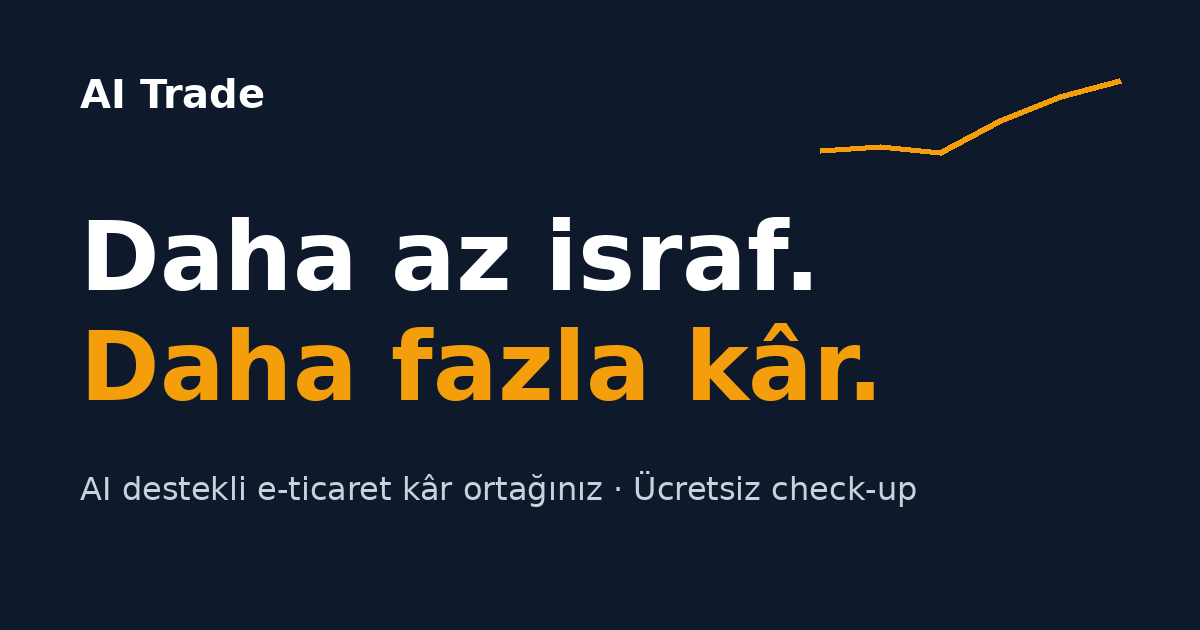
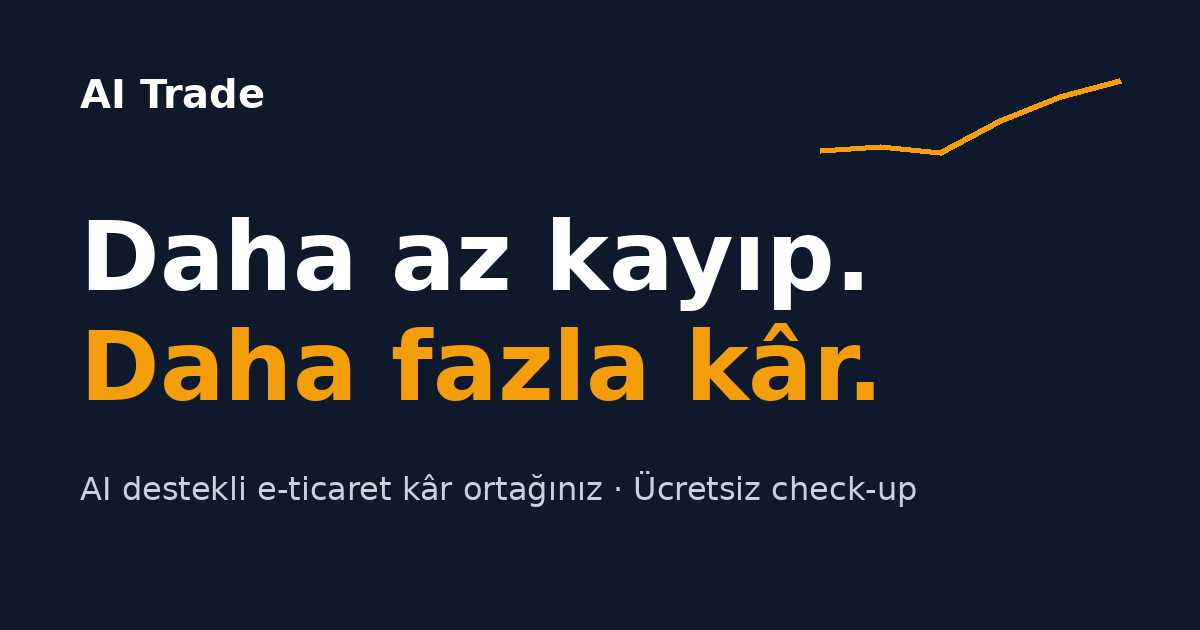
TR headline: Daha az kayıp. Daha fazla kâr.
Claude-Session: https://claude.ai/code/session_01YEdGwetTKLRp8zD5AJcmJk

Changed region(s): [[0.4625, 0.3317, 0.74, 0.5127]]

diff --git a/tr/index.html b/tr/index.html
@@ -57,7 +57,7 @@
 <div class="wrap">
 <div class="hero-copy">
 <p class="eyebrow">AI destekli e-ticaret kâr ortağınız</p>
-<h1 class="rise">Daha az israf.<br>Daha fazla kâr.</h1>
+<h1 class="rise">Daha az kayıp.<br>Daha fazla kâr.</h1>
 <p class="lead rise d2">E-ticaret operasyonunuzun nerede para ve zaman kaybettiğini buluyor, en önemlisini çözüyor ve çalışan sistemi ekibinize devrediyoruz. <span class="weeks">Sekiz haftada.</span></p>
 <div class="hero-ctas rise d3">
 <a class="btn btn-amber" href="../tr/check-up.html">Ücretsiz check-up isteyin</a>
@@ -167,7 +167,7 @@
 <a class="btn btn-amber cx-cta" href="../tr/check-up.html">Bu rakamları ücretsiz check-up ile netleştirin</a>
 </div>
 </div>
-<details class="cx-how"><summary>Hesap nasıl yapılıyor?</summary><ul><li>Büyük rakam, temkinli bir aralığın ortasıdır: <span data-out="range">–</span>. Ekip zamanı ayrı gösterilir, kâra eklenmez.</li><li>Kampanyalar: indirimli cironun %1,5–4&#x27;ü. İndirimli satışların bir kısmı genelde katkı marjının altında kalır; kampanya kurallarını düzeltmek bunun bir kısmını geri kazandırır.</li><li>Reklam: reklam harcamasının %5–12&#x27;si. Tipik israf, stoğu azalan ya da marjı düşük ürünlere ve çakışan kitlelere giden harcamadır.</li><li>İadeler: iadelerin %10–20&#x27;si önlenebilir; her iadenin maliyeti sipariş tutarının yaklaşık %15&#x27;i kadardır.</li><li>Kargo ve elleçleme: bu maliyetin %5–10&#x27;u; desi ve bölgeye göre kargo firması seçimi, paketleme, ücretsiz kargo eşiği ve mükerrer gönderimlerin önlenmesiyle.</li><li>Zaman: tekrarlayan manuel işin %40–60&#x27;ı otomatikleştirilebilir. Tam zamanlı eşdeğer haftalık 45 saat, iş günü 9 saat üzerinden hesaplanır.</li><li>Oranlar proje deneyimimize dayanır, bilerek temkinli tutulmuştur ve sizin işinizde farklı çıkacaktır.</li></ul></details>
+<details class="cx-how"><summary>Hesap nasıl yapılıyor?</summary><ul><li>Büyük rakam, temkinli bir aralığın ortasıdır: <span data-out="range">–</span>. Ekip zamanı ayrı gösterilir, kâra eklenmez.</li><li>Kampanyalar: indirimli cironun %1,5–4&#x27;ü. İndirimli satışların bir kısmı genelde katkı marjının altında kalır; kampanya kurallarını düzeltmek bunun bir kısmını geri kazandırır.</li><li>Reklam: reklam harcamasının %5–12&#x27;si. Tipik kayıp, stoğu azalan ya da marjı düşük ürünlere ve çakışan kitlelere giden harcamadır.</li><li>İadeler: iadelerin %10–20&#x27;si önlenebilir; her iadenin maliyeti sipariş tutarının yaklaşık %15&#x27;i kadardır.</li><li>Kargo ve elleçleme: bu maliyetin %5–10&#x27;u; desi ve bölgeye göre kargo firması seçimi, paketleme, ücretsiz kargo eşiği ve mükerrer gönderimlerin önlenmesiyle.</li><li>Zaman: tekrarlayan manuel işin %40–60&#x27;ı otomatikleştirilebilir. Tam zamanlı eşdeğer haftalık 45 saat, iş günü 9 saat üzerinden hesaplanır.</li><li>Oranlar proje deneyimimize dayanır, bilerek temkinli tutulmuştur ve sizin işinizde farklı çıkacaktır.</li></ul></details>
 </div>
 </section>
 <section class="section" id="about">

diff --git a/_source/src/content.py b/_source/src/content.py
@@ -148,7 +148,7 @@ T = {
     "title": "AI Trade — E-ticaret kârlılık danışmanlığı",
     "desc": "E-ticaretinizde para ve zaman kaybını buluyor, en önemlisini çözüyor, çalışan sistemi sekiz haftada ekibinize devrediyoruz. Ücretsiz check-up.",
     "eyebrow": "AI destekli e-ticaret kâr ortağınız",
-    "h1": "Daha az israf.<br>Daha fazla kâr.",
+    "h1": "Daha az kayıp.<br>Daha fazla kâr.",
     "lead": "E-ticaret operasyonunuzun nerede para ve zaman kaybettiğini buluyor, en önemlisini çözüyor ve çalışan sistemi ekibinize devrediyoruz.", "lead_weeks": "Sekiz haftada.",
     "cta": "Ücretsiz check-up isteyin", "ghost": "Kaybınızı kabaca hesaplayın ›",
     "panel_kicker": "Katkı kârı · haftalık", "panel_title": "Proje öncesi ve sonrası", "panel_tag": "Örnek görünüm",
@@ -336,7 +336,7 @@ T["tr"]["home"].update({
     "calc_how": "Hesap nasıl yapılıyor?",
     "calc_method": ["Büyük rakam, temkinli bir aralığın ortasıdır: <range>. Ekip zamanı ayrı gösterilir, kâra eklenmez.",
                     "Kampanyalar: indirimli cironun %1,5–4'ü. İndirimli satışların bir kısmı genelde katkı marjının altında kalır; kampanya kurallarını düzeltmek bunun bir kısmını geri kazandırır.",
-                    "Reklam: reklam harcamasının %5–12'si. Tipik israf, stoğu azalan ya da marjı düşük ürünlere ve çakışan kitlelere giden harcamadır.",
+                    "Reklam: reklam harcamasının %5–12'si. Tipik kayıp, stoğu azalan ya da marjı düşük ürünlere ve çakışan kitlelere giden harcamadır.",
                     "İadeler: iadelerin %10–20'si önlenebilir; her iadenin maliyeti sipariş tutarının yaklaşık %15'i kadardır.",
                     "Kargo ve elleçleme: bu maliyetin %5–10'u; desi ve bölgeye göre kargo firması seçimi, paketleme, ücretsiz kargo eşiği ve mükerrer gönderimlerin önlenmesiyle.",
                     "Zaman: tekrarlayan manuel işin %40–60'ı otomatikleştirilebilir. Tam zamanlı eşdeğer haftalık 45 saat, iş günü 9 saat üzerinden hesaplanır.",

diff --git a/_source/src/make_og.py b/_source/src/make_og.py
@@ -8,7 +8,7 @@ BOLD = "/usr/share/fonts/truetype/dejavu/DejaVuSans-Bold.ttf"
 REG = "/usr/share/fonts/truetype/dejavu/DejaVuSans.ttf"
 TEXT = {
     "en": ("Less waste.", "More profit.", "AI-powered e-commerce profit partner · Free check-up"),
-    "tr": ("Daha az israf.", "Daha fazla kâr.", "AI destekli e-ticaret kâr ortağınız · Ücretsiz check-up"),
+    "tr": ("Daha az kayıp.", "Daha fazla kâr.", "AI destekli e-ticaret kâr ortağınız · Ücretsiz check-up"),
 }
 
 for lang, (l1, l2, sub) in TEXT.items():
